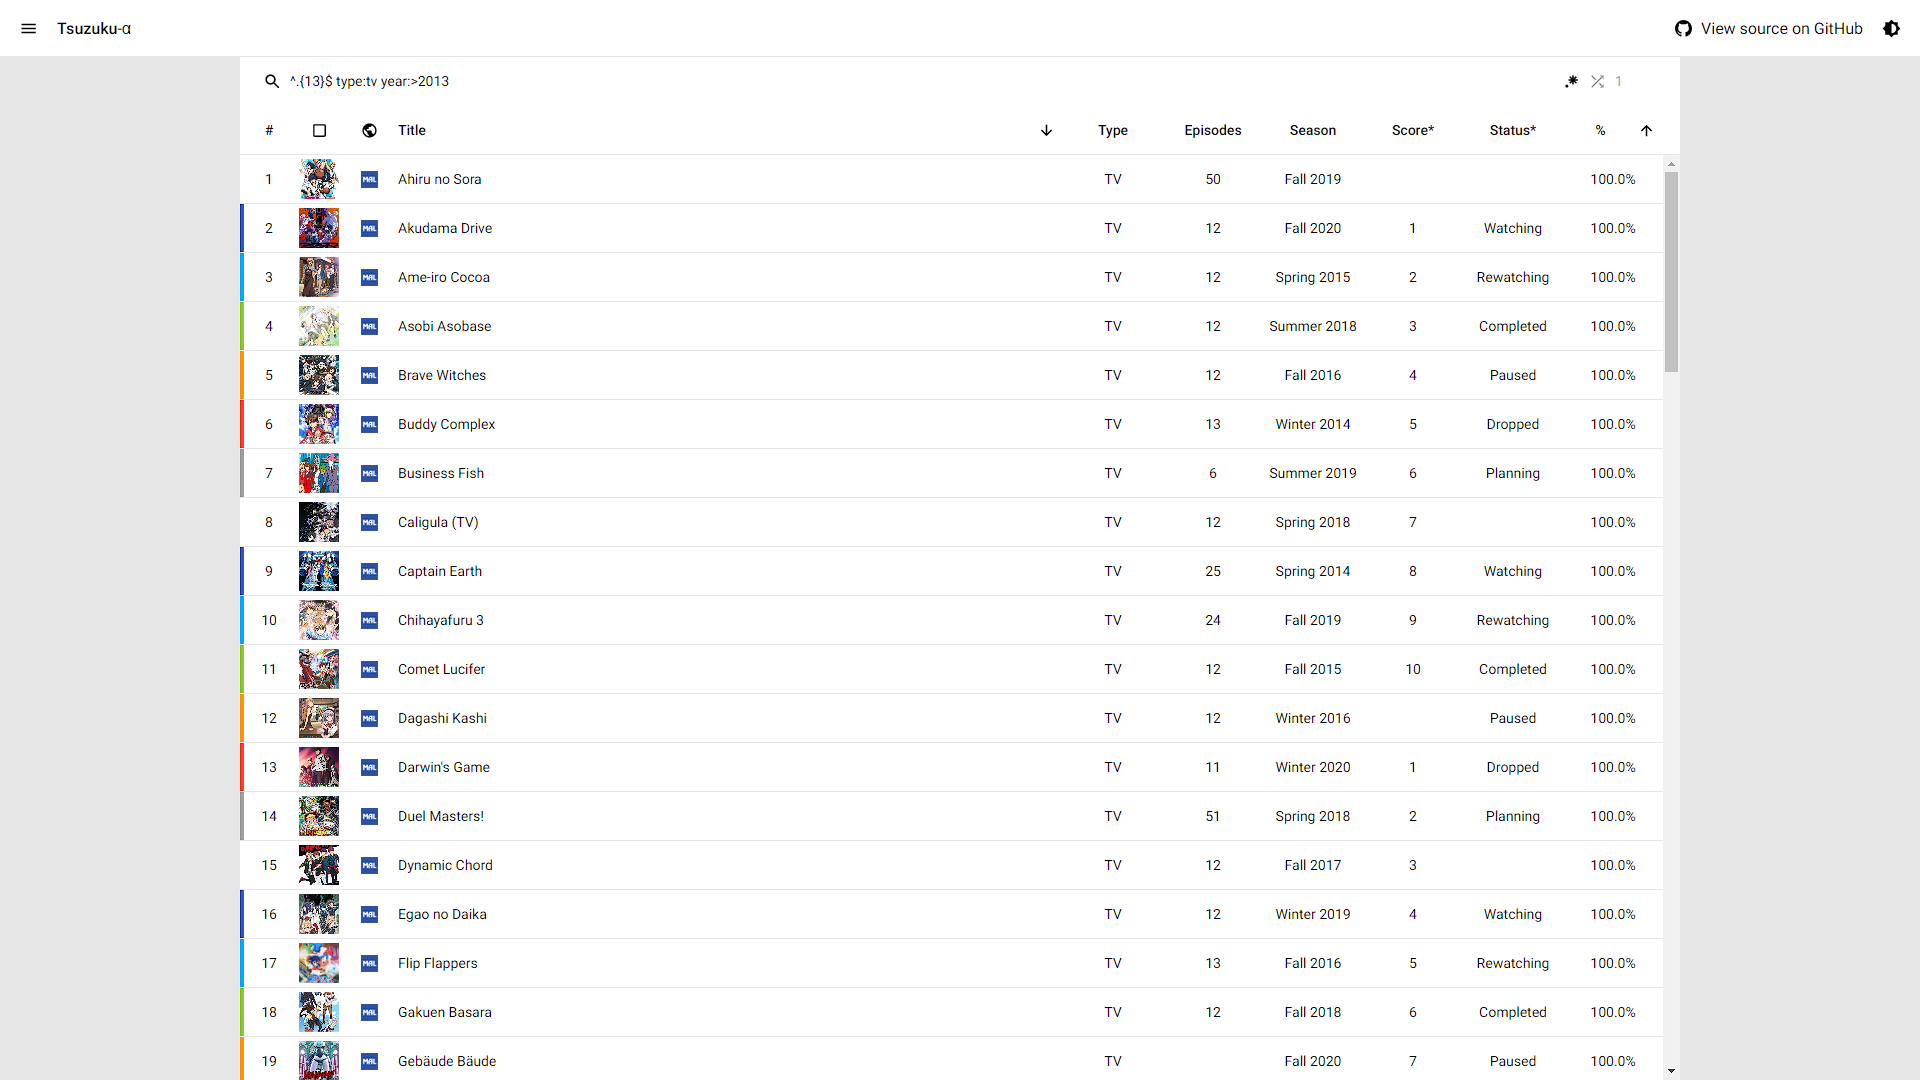
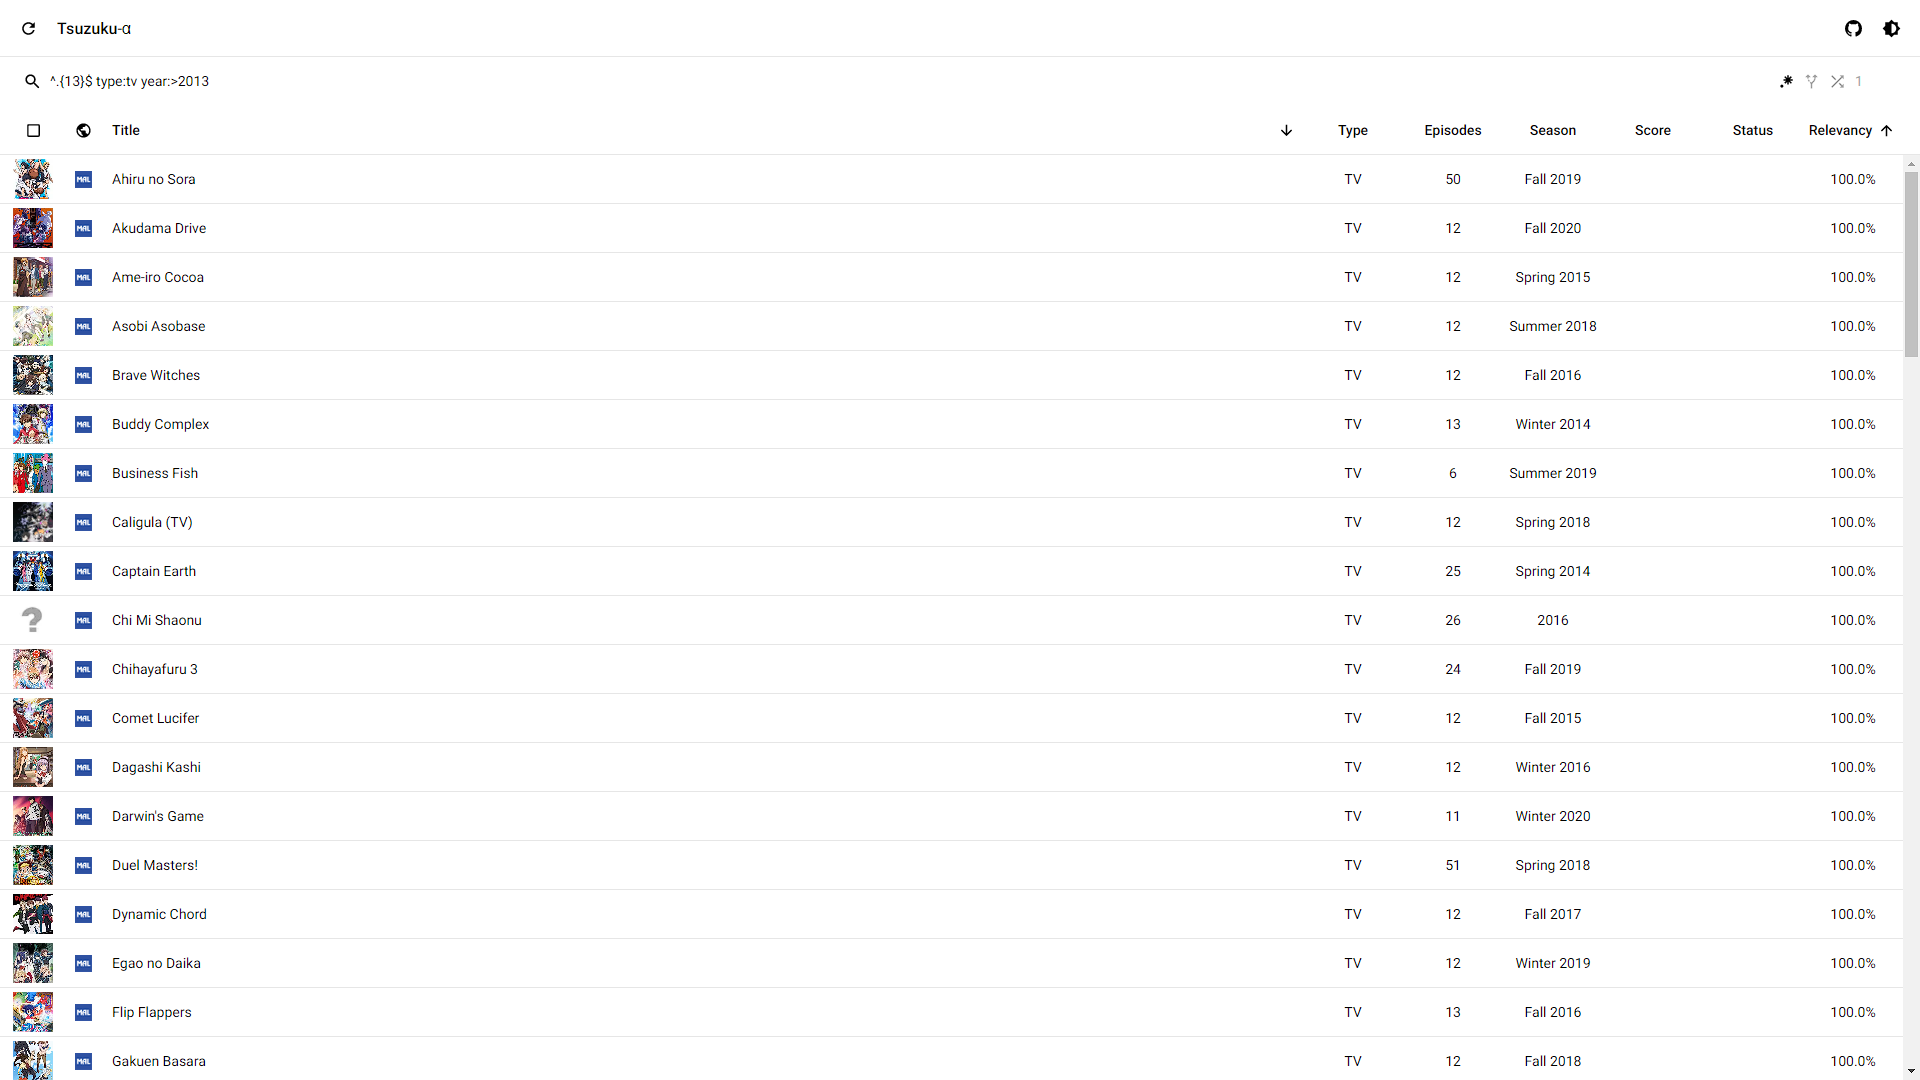
Add toggle synonyms

diff --git a/index.html b/index.html
@@ -3,7 +3,7 @@
     <head>
         <title>Tsuzuku</title>
         <meta charset="utf-8">
-        <meta name="description" content="Search anime using regular expressions, even offline ＼(￣▽￣)／">
+        <meta name="description" content="Search anime using regular expressions, even when offline!">
         <meta name="viewport" content="width=device-width, initial-scale=1">
         <meta name="theme-color" content="#fff">
         <link rel="icon" href="logo-192.png">
@@ -25,7 +25,7 @@
     </head>
     <body class="light">
         <noscript>
-            <span id="noscript">Tsuzuku can't run without JavaScript</span>
+            <span id="full">Tsuzuku can't run without JavaScript</span>
         </noscript>
         <script>
             switch (localStorage.getItem('theme')) {
@@ -63,7 +63,7 @@
             }
         </script> 
         <header>
-            <div id="reload" style="height: 100%; padding: 0 19px 0 19px; display: inline-flex; align-items: center; cursor: pointer;">
+            <div id="update" title="Update" style="height: 100%; padding: 0 19px 0 19px; display: inline-flex; align-items: center; cursor: pointer;">
                 <svg viewBox="0 0 24 24" width="19" height="19">
                     <path d="M17.65 6.35C16.2 4.9 14.21 4 12 4c-4.42 0-7.99 3.58-7.99 8s3.57 8 7.99 8c3.73 0 6.84-2.55 7.73-6h-2.08c-.82 2.33-3.04 4-5.65 4-3.31 0-6-2.69-6-6s2.69-6 6-6c1.66 0 3.14.69 4.22 1.78L13 11h7V4l-2.35 2.35z"></path>
                 </svg>
@@ -97,13 +97,18 @@
                 </span>
                 <input id="search" type="text" autocomplete="off" placeholder="Search">
                 <span id="clear" title="Clear" style="padding: 4px; display: none; align-items: center; visibility: visible;">
-                    <svg class="disabled" viewBox="0 0 24 24" width="19" height="19">
+                    <svg viewBox="0 0 24 24" width="19" height="19">
                         <path d="M19 6.41L17.59 5 12 10.59 6.41 5 5 6.41 10.59 12 5 17.59 6.41 19 12 13.41 17.59 19 19 17.59 13.41 12z"></path>
                     </svg>
                 </span>
                 <span id="regex" title="Use regular expression" style="display: inline-flex; align-items: center; padding: 4px;">
                     <svg class="disabled" viewBox="2 2 22 22" width="17" height="17">
                         <path d="M16,16.92C15.67,16.97 15.34,17 15,17C14.66,17 14.33,16.97 14,16.92V13.41L11.5,15.89C11,15.5 10.5,15 10.11,14.5L12.59,12H9.08C9.03,11.67 9,11.34 9,11C9,10.66 9.03,10.33 9.08,10H12.59L10.11,7.5C10.3,7.25 10.5,7 10.76,6.76V6.76C11,6.5 11.25,6.3 11.5,6.11L14,8.59V5.08C14.33,5.03 14.66,5 15,5C15.34,5 15.67,5.03 16,5.08V8.59L18.5,6.11C19,6.5 19.5,7 19.89,7.5L17.41,10H20.92C20.97,10.33 21,10.66 21,11C21,11.34 20.97,11.67 20.92,12H17.41L19.89,14.5C19.7,14.75 19.5,15 19.24,15.24V15.24C19,15.5 18.75,15.7 18.5,15.89L16,13.41V16.92H16V16.92M5,19A2,2 0 0,1 7,17A2,2 0 0,1 9,19A2,2 0 0,1 7,21A2,2 0 0,1 5,19H5Z"></path>
+                    </svg>
+                </span>
+                <span id="alt" title="Include synonyms" style="display: inline-flex; align-items: center; padding: 4px;">
+                    <svg class="disabled" viewBox="0 0 24 24" width="17" height="17">
+                        <path d="M9.78,11.16l-1.42,1.42c-0.68-0.69-1.34-1.58-1.79-2.94l1.94-0.49C8.83,10.04,9.28,10.65,9.78,11.16z M11,6L7,2L3,6h3.02 C6.04,6.81,6.1,7.54,6.21,8.17l1.94-0.49C8.08,7.2,8.03,6.63,8.02,6H11z M21,6l-4-4l-4,4h2.99c-0.1,3.68-1.28,4.75-2.54,5.88 c-0.5,0.44-1.01,0.92-1.45,1.55c-0.34-0.49-0.73-0.88-1.13-1.24L9.46,13.6C10.39,14.45,11,15.14,11,17c0,0,0,0,0,0h0v5h2v-5 c0,0,0,0,0,0c0-2.02,0.71-2.66,1.79-3.63c1.38-1.24,3.08-2.78,3.2-7.37H21z"></path>
                     </svg>
                 </span>
                 <span id="random" title="Randomize" class="material-icons" style="padding: 4px; display: inline-flex; align-items: center;">

diff --git a/index.js b/index.js
@@ -10,6 +10,7 @@ import {
 let over = false,
     last = '',
     lastRegex = false,
+    lastAlt = false,
     lastRandom = false,
     worker = null,
     dimension = null;
@@ -17,13 +18,14 @@ let over = false,
 function searchFunction(tt) {
     let table = tt || t;
 
-    if (last === document.querySelector('#search').value && !lastRandom && !params.random && lastRegex === params.regex) {
+    if (last === document.querySelector('#search').value && !lastRandom && !params.random && lastRegex === params.regex && lastAlt === params.alt) {
         return;
     }
 
     last = document.querySelector('#search').value;
-    lastRandom = params.random;
     lastRegex = params.regex;
+    lastAlt = params.alt;
+    lastRandom = params.random;
     params.randomValue = Math.round(Math.abs(document.querySelector('#number').value)) || 1;
 
     document.querySelector('.tabulator-tableHolder').style.display = 'none';
@@ -62,6 +64,7 @@ function searchFunction(tt) {
         random: params.random,
         randomValue: params.randomValue,
         regex: params.regex,
+        alt: params.alt,
         value: document.querySelector('#search').value
     });
 
@@ -82,6 +85,10 @@ function searchFunction(tt) {
 
                     if (params.regex) {
                         url.searchParams.set('regex', '1');
+                    }
+
+                    if (params.alt) {
+                        url.searchParams.set('alt', '1');
                     }
 
                     if (params.random) {
@@ -106,6 +113,10 @@ function searchFunction(tt) {
 
                     if (params.regex) {
                         url.searchParams.set('regex', '1');
+                    }
+
+                    if (params.alt) {
+                        url.searchParams.set('alt', '1');
                     }
 
                     if (params.random) {
@@ -145,7 +156,11 @@ if (document.querySelector('#search').value) {
     document.querySelector('#clear').style.display = 'inline-flex';
 }
 
-document.querySelector('#reload').addEventListener('click', () => {
+document.querySelector('#update').addEventListener('click', () => {
+    document.querySelector('body').insertAdjacentHTML('beforeend',  
+        '<span id="full">Updating...</span>'
+    );
+
     caches.open('tsuzuku').then((cache) => {
         cache.keys().then((keys) => {
             keys.forEach((request) => {
@@ -217,6 +232,20 @@ document.querySelector('#regex').addEventListener('click', () => {
     } else {
         document.querySelector('#regex svg').classList.remove('disabled');
         params.regex = true;
+    }
+
+    document.querySelector('#search').focus();
+
+    searchFunction();
+});
+
+document.querySelector('#alt').addEventListener('click', () => {
+    if (params.alt) {
+        document.querySelector('#alt svg').classList.add('disabled');
+        params.alt = false;
+    } else {
+        document.querySelector('#alt svg').classList.remove('disabled');
+        params.alt = true;
     }
 
     document.querySelector('#search').focus();
@@ -325,6 +354,14 @@ onpopstate = () => {
     } else {
         params.regex = false;
         document.querySelector('#regex svg').classList.add('disabled');
+    }
+
+    if (new URLSearchParams(location.search).get('alt') === '1') {
+        params.alt = true;
+        document.querySelector('#alt svg').classList.remove('disabled');
+    } else {
+        params.alt = false;
+        document.querySelector('#alt svg').classList.add('disabled');
     }
 
     if (Math.round(Math.abs(Number(new URLSearchParams(location.search).get('random')))) > 0) {

diff --git a/fetchFunction.js b/fetchFunction.js
@@ -8,6 +8,7 @@ let r = null,
     t = null,
     title = document.title,
     params = {
+        alt: false,
         random: false,
         randomValue: 1,
         regex: false
@@ -88,6 +89,11 @@ fetch('https://raw.githubusercontent.com/manami-project/anime-offline-database/m
                 if (new URLSearchParams(location.search).get('regex') === '1') {
                     params.regex = true;
                     document.querySelector('#regex svg').classList.remove('disabled');
+                }
+
+                if (new URLSearchParams(location.search).get('alt') === '1') {
+                    params.alt = true;
+                    document.querySelector('#alt svg').classList.remove('disabled');
                 }
 
                 if (Math.round(Math.abs(Number(new URLSearchParams(location.search).get('random')))) > 0) {
@@ -193,7 +199,12 @@ fetch('https://raw.githubusercontent.com/manami-project/anime-offline-database/m
 
                             document.querySelector('#header-title').innerHTML = column.getTable().getSelectedRows().length + ' selected';
                             document.querySelector('#header-version').style.display = 'none';
-                            document.head.querySelector('[name="theme-color"]').content = '#769bcc';
+
+                            if (localStorage.getItem('theme') === 'dark') {
+                                document.head.querySelector('[name="theme-color"]').content = '#fff';
+                            } else {
+                                document.head.querySelector('[name="theme-color"]').content = '#000';
+                            }
                         } else {
                             document.querySelector('header').classList.remove('header-tabulator-selected');
                             column._column.titleElement.children[0].innerHTML = '<path d="M19 5v14H5V5h14m0-2H5c-1.1 0-2 .9-2 2v14c0 1.1.9 2 2 2h14c1.1 0 2-.9 2-2V5c0-1.1-.9-2-2-2z"></path>';
@@ -257,7 +268,12 @@ fetch('https://raw.githubusercontent.com/manami-project/anime-offline-database/m
                             document.querySelector('header').classList.add('header-tabulator-selected');
                             document.querySelector('#header-title').innerHTML = cell.getTable().getSelectedRows().length + ' selected';
                             document.querySelector('#header-version').style.display = 'none';
-                            document.head.querySelector('[name="theme-color"]').content = '#769bcc';
+
+                            if (localStorage.getItem('theme') === 'dark') {
+                                document.head.querySelector('[name="theme-color"]').content = '#fff';
+                            } else {
+                                document.head.querySelector('[name="theme-color"]').content = '#000';
+                            }
 
                             if (cell.getTable().getSelectedRows().length === cell.getTable().getRows().length) {
                                 cell.getColumn()._column.titleElement.children[0].innerHTML = '<path d="M19 3H5c-1.11 0-2 .9-2 2v14c0 1.1.89 2 2 2h14c1.11 0 2-.9 2-2V5c0-1.1-.89-2-2-2zm-9 14l-5-5 1.41-1.41L10 14.17l7.59-7.59L19 8l-9 9z"></path>';

diff --git a/index.css b/index.css
@@ -22,16 +22,18 @@
     --background: #fff;
     --background-hover: #e6e6e6;
     --color: #000;
-    --selected: #9abcea;
-    --selected-hover: #769bcc;
+    --selected: #000;
+    --selected-color: #fff;
+    --selected-hover: #191919;
 }
 
 .dark {
     --background: #000;
     --background-hover: #191919;
     --color: #fff;
-    --selected: #9abcea;
-    --selected-hover: #769bcc;
+    --selected: #fff;
+    --selected-color: #000;
+    --selected-hover: #e6e6e6;
 }
 
 * {
@@ -108,8 +110,7 @@ svg {
     fill: var(--color);
 }
 
-#random svg.disabled,
-#regex svg.disabled {
+svg.disabled {
     fill: #aaa;
 }
 
@@ -202,7 +203,15 @@ header,
 }
 
 .header-tabulator-selected {
-    background: #769bcc !important;
+    background: var(--selected) !important;
+}
+
+.header-tabulator-selected span {
+    color: var(--selected-color) !important;
+}
+
+.header-tabulator-selected svg {
+    fill: var(--selected-color) !important;
 }
 
 header a:hover {
@@ -210,7 +219,7 @@ header a:hover {
 }
 
 .header-tabulator-selected a,
-.header-tabulator-selected #reload,
+.header-tabulator-selected #update,
 .header-tabulator-selected #theme {
     display: none !important;
 }
@@ -249,6 +258,10 @@ header a:hover {
 
 .tabulator-selected {
     --row-background: var(--selected) !important;
+}
+
+.tabulator-selected * {
+    color: var(--selected-color) !important;
 }
 
 .tabulator-selected:hover {
@@ -355,7 +368,7 @@ input {
     flex-grow: 1;
 }
 
-#noscript {
+#full {
     height: 100%;
     width: 100%;
     background: var(--background-hover);

diff --git a/worker.js b/worker.js
@@ -157,9 +157,14 @@ self.addEventListener('message', function (event) {
 
         if (v.trim()) {
             if (event.data.regex) {
-                let r = false;
+                let r = false,
+                    t = [d.title];
+                
+                if (event.data.alt) {
+                    t.push(...d.synonyms);
+                }
 
-                for (const value of [d.title, ...d.synonyms]) {
+                for (const value of t) {
                     if (value.match(RegExp(v.trim(), 'giu'))) {
                         r = true;
 
@@ -177,7 +182,13 @@ self.addEventListener('message', function (event) {
 
                 d.relevancy = 1;
             } else {
-                const result = new Fuse([d.title, ...d.synonyms], {
+                let t = [d.title];
+
+                if (event.data.alt) {
+                    t.push(...d.synonyms);
+                }
+
+                const result = new Fuse(t, {
                     includeScore: true,
                     threshold: 1 / 3
                 }).search(v.trim());

diff --git a/README.md b/README.md
@@ -3,7 +3,7 @@
 
 ![](https://raw.githubusercontent.com/kuzutsu/tsuzuku/master/preview.png)
 
-It uses the [anime-offline-database](https://github.com/manami-project/anime-offline-database) (to minimize duplicates, it will only use titles from MyAnimeList or Kitsu) and [Tabulator](https://github.com/olifolkerd/tabulator).
+It uses the [anime-offline-database](https://github.com/manami-project/anime-offline-database) (to minimize duplicates, only titles from MyAnimeList or Kitsu will be used) and [Tabulator](https://github.com/olifolkerd/tabulator).
 * If title is in MyAnimeList but not in Kitsu, this will be listed and MyAnimeList icon will be shown
 * If title is in Kitsu but not in MyAnimeList, this will be listed and Kitsu icon will be shown
 * If title is in MyAnimeList and same title is in Kitsu, only one title will be listed and MyAnimeList icon will be shown
@@ -12,6 +12,8 @@ It uses the [anime-offline-database](https://github.com/manami-project/anime-off
 ## Features
 ### Offline-ready
 Install as PWA
+
+Click on update icon to force latest version
 
 ### Fuzzy search (default)
 Uses [Fuse](https://github.com/krisk/fuse)
@@ -32,7 +34,14 @@ Examples:
 * Only 8 *i*'s ([`^[^i]*(?:i[^i]*){8}$`](https://kuzutsu.github.io/tsuzuku/?query=%255E%255B%255Ei%255D*%28%253F%253Ai%255B%255Ei%255D*%29%257B8%257D%2524&regex=1))
 * No spaces ([`^\S+$`](https://kuzutsu.github.io/tsuzuku/?query=%255E%255CS%252B%2524&regex=1))
 
-### Advanced search
+### Synonym search
+Default is Romaji only
+
+Click on split-arrow icon to toggle (will light up when enabled)
+
+### Search syntaxes
+* `is:selected`
+
 #### OR-based
 Separate with `,`, no spaces
 * `season:` (`winter`, `spring`, `summer`, `fall`, `tba`)
